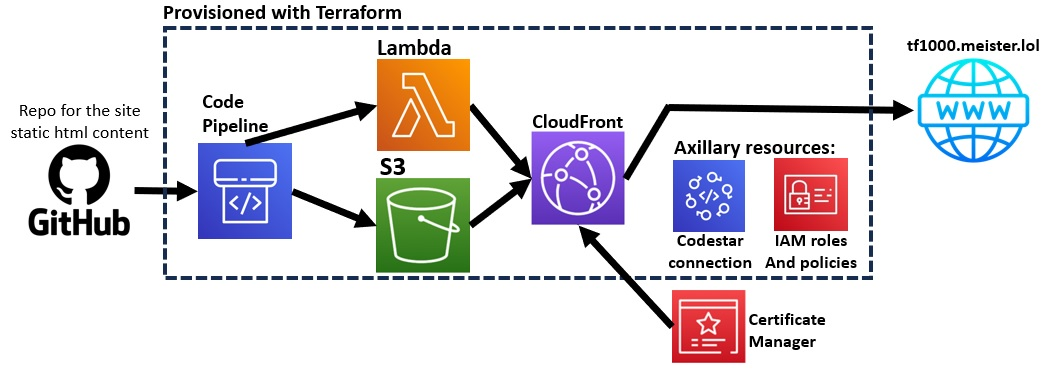
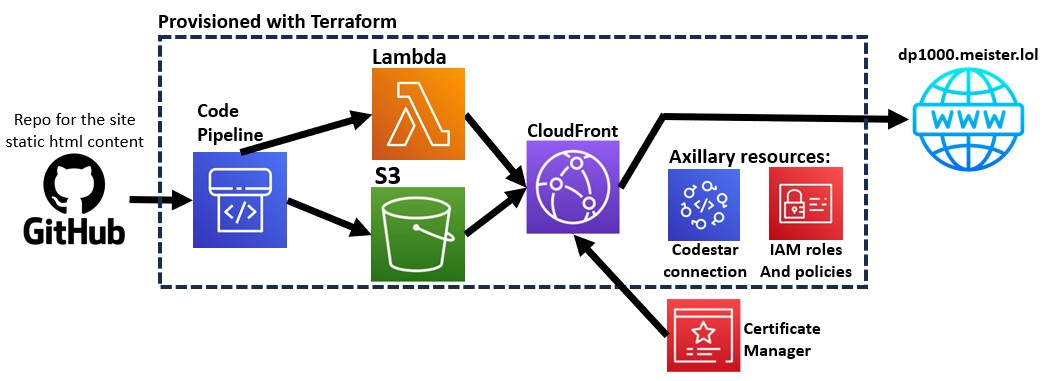
project name changes from tf to dp

Changed region(s): [[0.0, 0.0, 1.0, 0.9784]]

diff --git a/README.md b/README.md
@@ -1,10 +1,10 @@
-# Static site Deployment using terraform. project tf1000
+# Static site Deployment using terraform. project dp1000
 
 This project demonstrates provisioning of a aws static site using terraform.
-This site is simple, but yet, more complicated than the ususal S3 bucket static site.
-The site extra featurs are: better access letancy worldwide due to using CloudFront CDN,
+This site is simple, but yet, more complicated than the usual S3 bucket static site.
+The site extra features are: better access latency worldwide due to using CloudFront CDN,
 use a ssl certificate to encrypt the connection to the site, and custom error pages
-The static files for the website can be found [On this repo](https://github.com/OmerMeister/tf1000-webcontent).
+The static files for the website can be found [On this repo](https://github.com/OmerMeister/dp1000-webcontent).
 
 ## Diagram
 ![Resources diagram](auxiliary/graph.jpg)
@@ -12,58 +12,59 @@ The static files for the website can be found [On this repo](https://github.com/
 ## Resources composition
 
 S3 Buckets:<br />
-**tf1000_webcontent** - site static content is copied to here from github.<br />
-**tf1000_codepipelineartifact** - stores the codepipeline resource artifacts'.<br />
+**dp1000_webcontent** - site static content is copied to here from GitHub.<br />
+**dp1000_codepipelineartifact** - stores the codepipeline resource artifacts'.<br />
 
 S3 bucket policy:<br />
-**tf1000_allow_readget_access_cloudfront_to_s3** - attaches the policy with the same name to the "tf1000_webcontent" bucket.<br />
+**dp1000_allow_readget_access_cloudfront_to_s3** - attaches the policy with the same name to the "dp1000_webcontent" bucket.<br />
 
 S3 bucket website configuration:<br />
-**tf1000_webcontent** - enables default static website cofigurations for the bucket with the same name.<br />
+**dp1000_webcontent** - enables default static website configurations for the bucket with the same name.<br />
 
 Policies:<br />
-**tf1000_allow_readget_access_cloudfront_to_s3** - uses "aws_iam_policy_document" which is optional resource type for not using json for aws policies in terraform - allows access from cloudfront to the s3 for invalidations, and files check for 404 errors.<br />
-**tf1000_lambda1_policy** - uses jsonencode - allows the lambda to access codepipeline to report success/faliure. allows access to cloudfront to create invalidations<br />
-**tf1000_pipeline_policy** - uses jsonencode - allows access to many aws resources for the pipeline to use. I got the policy as is from aws.<br />
+**dp1000_allow_readget_access_cloudfront_to_s3** - uses "aws_iam_policy_document" which is optional resource type for not using json for aws policies in terraform - allows access from cloudfront to the s3 for invalidations, and files check for 404 errors.<br />
+**dp1000_lambda1_policy** - uses jsonencode - allows the lambda to access codepipeline to report success/failure. allows access to cloudfront to create invalidations<br />
+**dp1000_pipeline_policy** - uses jsonencode - allows access to many aws resources for the pipeline to use. I got the policy as is from aws.<br />
 
 Roles:<br />
-**tf1000_lambda1_role** - uses jsonencode - doesn't any special settings.<br />
-**tf1000_pipeline_role** - uses jsonencode - doesn't any special settings.
+**dp1000_lambda1_role** - uses jsonencode - doesn't any special settings.<br />
+**dp1000_pipeline_role** - uses jsonencode - doesn't any special settings.
 
 Policy attachments:<br />
-**tf1000_lambda1_attachment** - attaches tf1000_lambda1_policy to its corresponding role<br />
-**f1000_pipeline_attachment** - attaches tf1000_pipeline_policy to its corresponding role
+**dp1000_lambda1_attachment** - attaches dp1000_lambda1_policy to its corresponding role<br />
+**f1000_pipeline_attachment** - attaches dp1000_pipeline_policy to its corresponding role
 
 CloudFront distribution:<br />
-**tf1000_cf_distribution** - CDN to serve the webpages, gets a certificate installed for the relevant domain name
+**dp1000_cf_distribution** - CDN to serve the webpages, gets a certificate installed for the relevant domain name
 
 Cloudfront origin access control:<br />
-**tf1000_oac** - required by the cloudfrotn distribution to securly fetch files from the S3
+**dp1000_oac** - required by the cloudfrotn distribution to securely fetch files from the S3
 
 Data archive file:<br />
-**tf1000_python_code** - terraform resource to point on the python code file for the lambda function.
+**dp1000_python_code** - terraform resource to point on the python code file for the lambda function.
 
 Lambdas:<br />
-**tf1000_lambda1** - function creates invalidation of all files whithin a cloudfront distribution. Gets the ID of the cf-dist as an environment variable, which gets its value from the cf-dist resource of "tf1000_cf_distribution"
+**dp1000_lambda1** - function creates invalidation of all files within a cloudfront distribution. Gets the ID of the cf-dist as an environment variable, which gets its value from the cf-dist resource of "dp1000_cf_distribution"
 
 CodeStar Connections:<br />
-**OmerMeister_GitHub** - made with "github v2" api for accessing resources from GitHub, based on one time authorization made by the github account owner to aws github app. the codestar connection itself also has to be manually approved once. I could really on already existed one but created it with TerraForm just to show its possible.
+**OmerMeister_GitHub** - made with "GitHub v2" api for accessing resources from GitHub, based on one time authorization made by the GitHub account owner to aws GitHub app. the codestar connection itself also has to be manually approved once. I could really on already existed one but created it with Terraform just to show its possible.
 
 CodePiplines:<br />
-**tf1000_codepipeline** - The pipeline has three steps: 1 - gets triggred by a commit on a specific github repository, then download the commit content to a temporary zip. 2 - extracts the zip contents to the S3 bucket. 3 - calls the lambda function to create a distribution invalidation. the invalidation makes cloudfront update its site content.
+**dp1000_codepipeline** - The pipeline has three steps: 1 - gets triggered by a commit on a specific GitHub repository, then download the commit content to a temporary zip. 2 - extracts the zip contents to the S3 bucket. 3 - calls the lambda function to create a distribution invalidation. the invalidation makes cloudfront update its site content.
 
 ## Variables and Tages
 On the variables file there are:<br />
 **meister_lol_certificate_us_east_1** - my global certificate for various projects. cloudfront demands a certificate from 'us-east-1' region.<br />
-**project_domain_name** - unifies 10 appearences of the project domain in the main.tf file<br />
+**project_domain_name** - unifies 10 appearances of the project domain in the main.tf file<br />
 <br />On the Terraform cloud there are:<br />
 **AWS_ACCESS_KEY_ID** and **AWS_SECRET_ACCESS_KEY** - to access the aws account.<br />
 **AWS_DEFAULT_REGION** - to set region, i worked on 'eu-central-1' when possible.<br />
 <br />Tags:<br />
-**Project = tf1000** - 'tf' for 'terraform' and '1000' for the first project in a four digit convention. This tag is attached whenever is possible. It groups all resources which are belong solely to this project
-
+**Project = dp1000** - 'dp' for 'DevOps Project' and '1000' for the first project in a four digit convention. This tag is attached whenever is possible. It groups all resources which are belong solely to this project
 
 ## Disadvantages and outside resources
 
-- Files which get delete from the github repository doesn't get deleted on the S3 bucket and therefore also not from the cloudfront distribution, possible fix could be achived using aws' vcs "CodeCommit" instead of github.
-- The AWS Certificate Manager for the certificate of the domain "*.meister.lol" was created outside of this script because it uses for other purpuses than this project itself.
+- Files which get delete from the GitHub repository doesn't get deleted on the S3 bucket and therefore also not from the cloudfront distribution, possible fix could be achieved using aws' vcs "CodeCommit" instead of GitHub.
+- The AWS Certificate Manager for the certificate of the domain "*.meister.lol" was created outside of this script because it uses for other purposes than this project itself.
+
+
